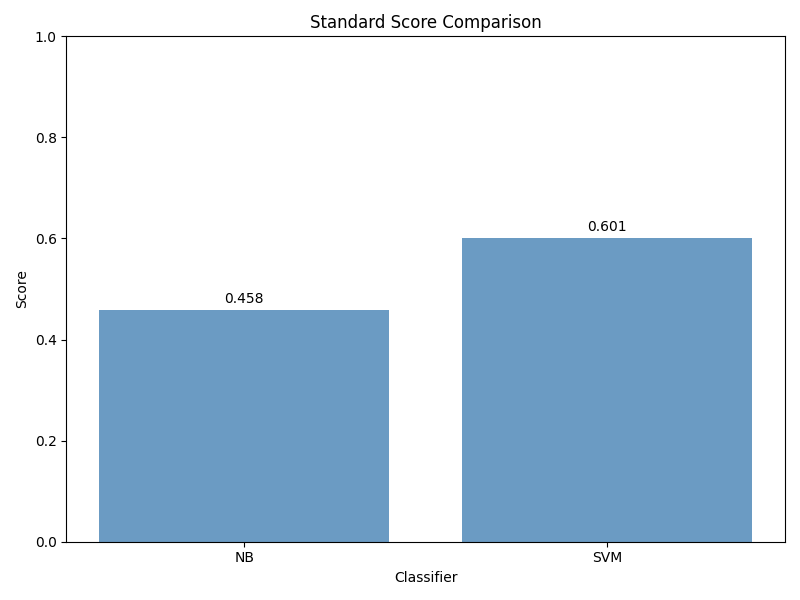
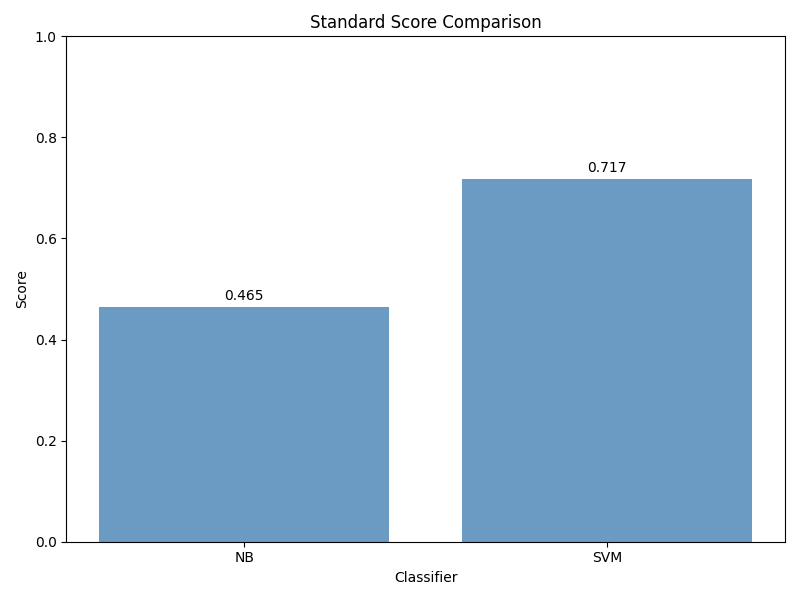
added changes from splits

Changed region(s): [[0.5625, 0.27, 0.9375, 0.42], [0.125, 0.48, 0.4688, 0.54]]

diff --git a/preprocessing.py b/preprocessing.py
@@ -39,12 +39,12 @@ def preprocess_data(X, y):
     scaler.fit(X_features)
     X_scaled = scaler.transform(X_features)
 
-    X_train, X_test, y_train, y_test, songs_train, songs_test = train_test_split(
+    X_temp, X_test, y_temp, y_test, songs_temp, songs_test = train_test_split(
         X_scaled, y, songs, test_size=0.2, stratify=y, random_state=42
     )
 
     X_train, X_val, y_train, y_val, songs_train, songs_val = train_test_split(
-        X_test, y_test, songs_test, test_size=0.25, random_state=42
+        X_temp, y_temp, songs_temp, test_size=0.25, random_state=42
     )  # 60% train, 20% val, 20% test
 
     # return X_train, X_test, y_train, y_test, songs_train, songs_test

diff --git a/post_analysis.py b/post_analysis.py
@@ -8,7 +8,7 @@ import seaborn as sns
 import numpy as np
 
 df = pd.read_csv("songs.csv")
-X_train, X_test, y_train, y_test, songs_train, songs_test= get_data()
+X_train, X_test, y_train, y_test, songs_train, songs_test, X_val, y_val, songs_val = get_data()
 
 #for j in range(len(X_test)):
 #    print(f"{songs_test.iloc[j]} {predict_multi_genres(X_test[j])}, real genres: {df.loc[df['song'] == songs_test.iloc[j], 'genre'].values}")

diff --git a/naive_bayes.py b/naive_bayes.py
@@ -6,7 +6,8 @@ import matplotlib.pyplot as plt
 import seaborn as sns
 
 from preprocessing import get_data, preprocess_data, transform_data
-X_train, X_test, y_train, y_test, songs_train, songs_test= get_data()
+# X_train, X_test, y_train, y_test, songs_train, songs_test= get_data()
+X_train, X_test, y_train, y_test, songs_train, songs_test, _, _, _ = get_data()
 
 
 all_genres = list(set(y_train))
